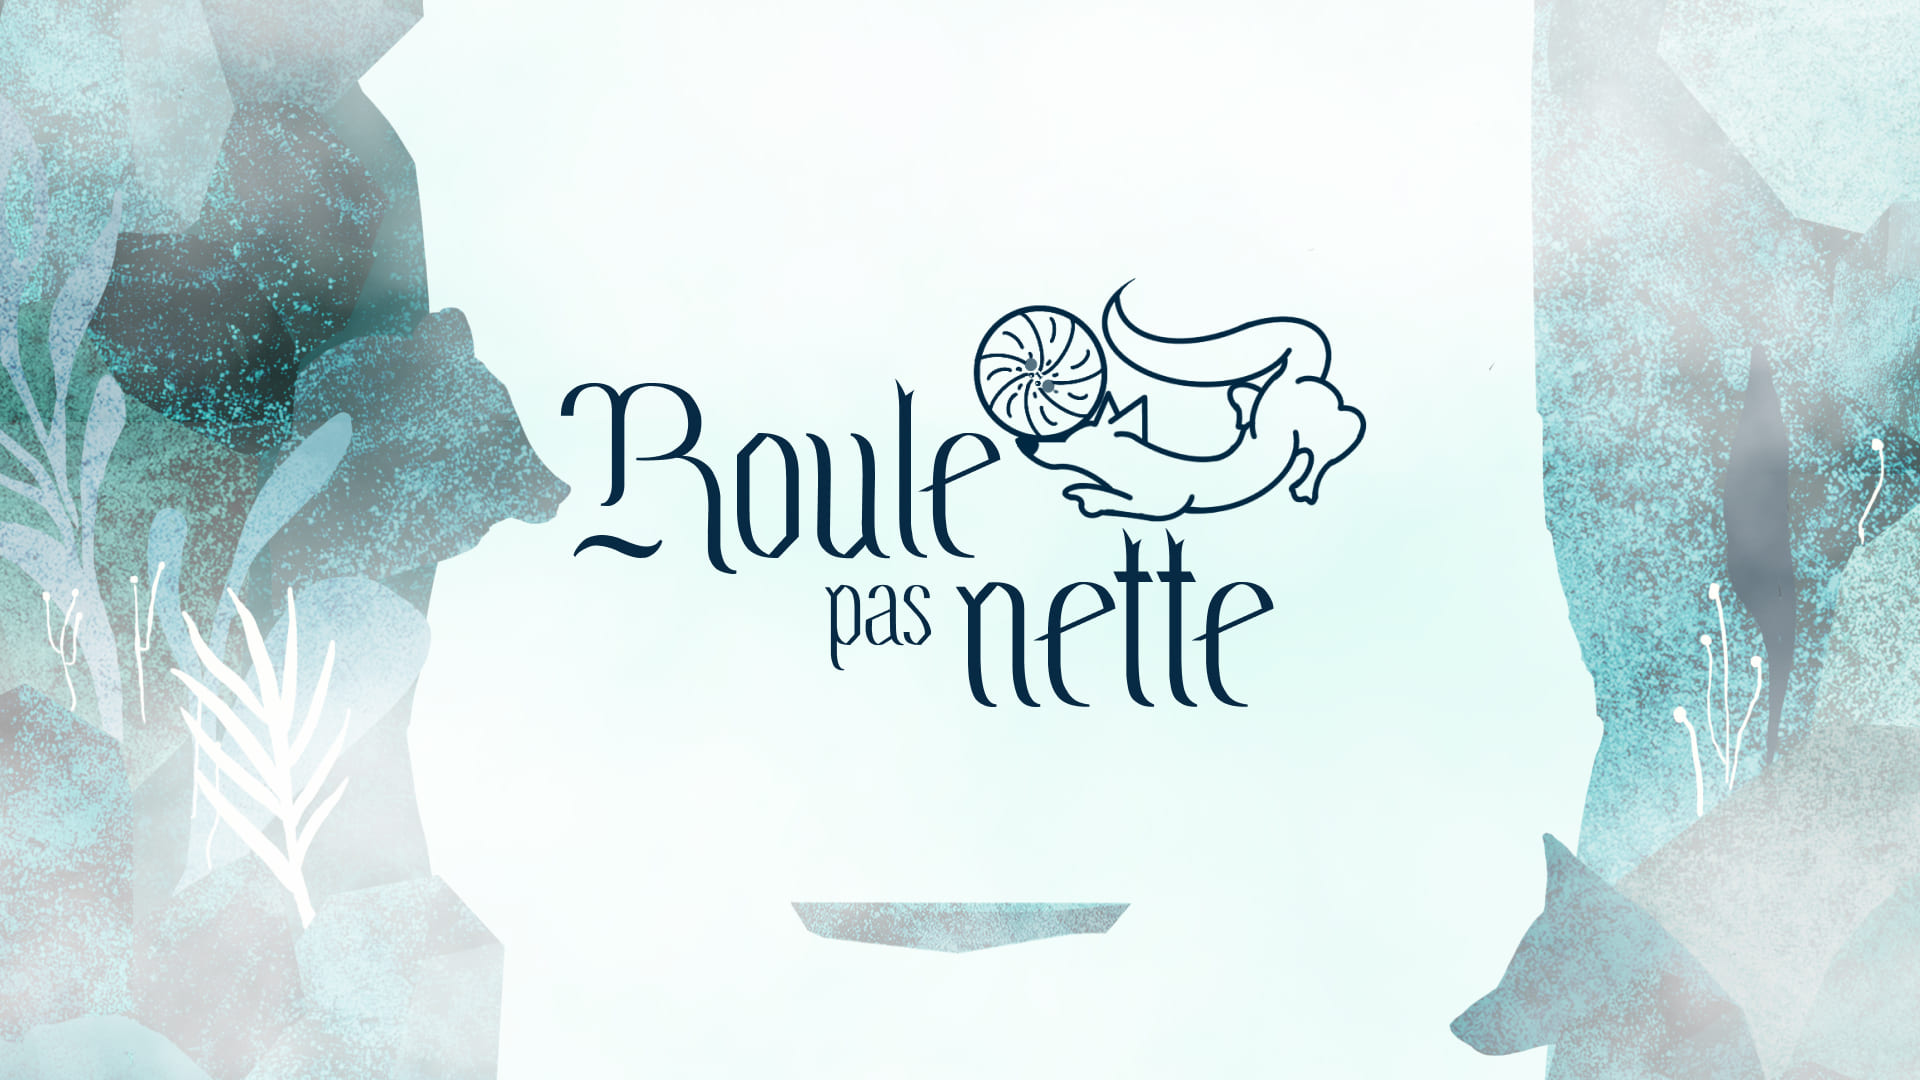
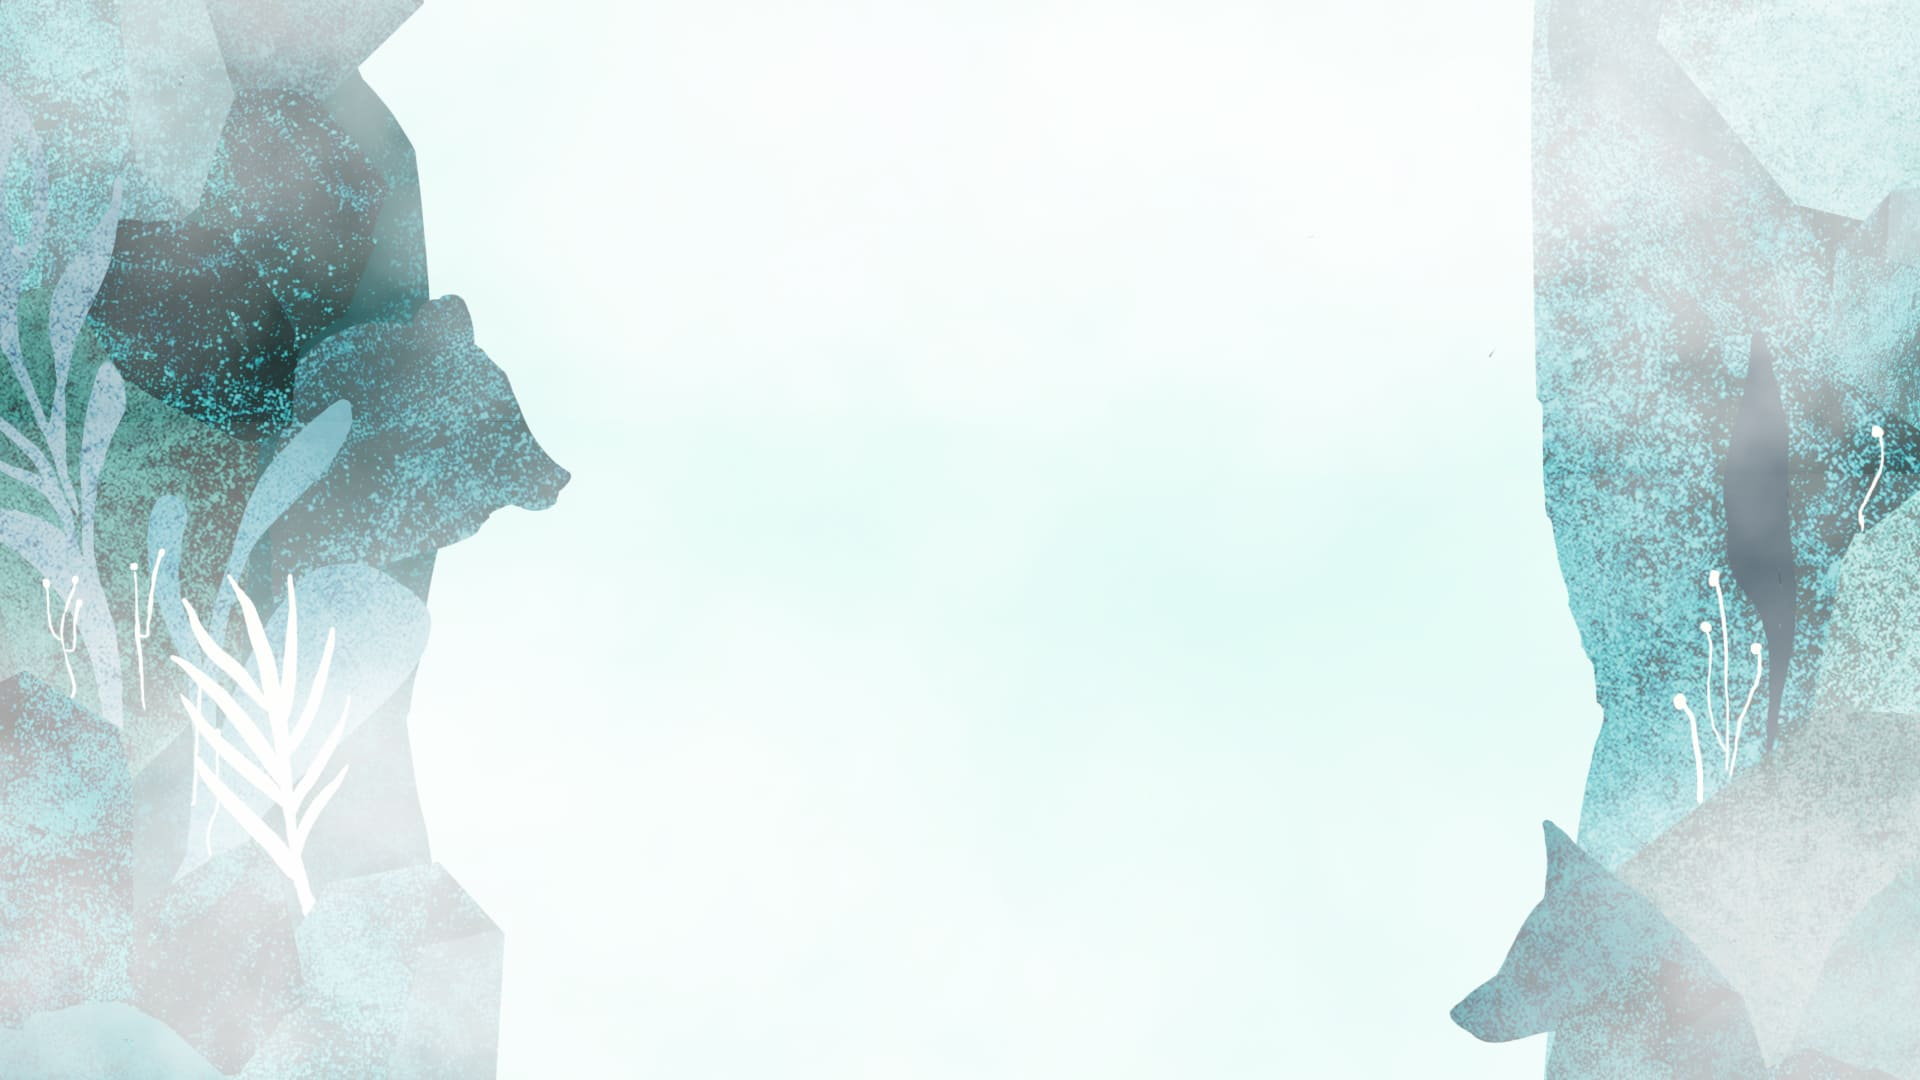
change home page

diff --git a/src/components/Accueil/accueil.css b/src/components/Accueil/accueil.css
@@ -6,9 +6,46 @@
     display: flex;
     flex-direction: column;
     justify-content: center;
-    gap: 6em;
+    /* gap: 6em; */
     align-items: center;
     background-image: url(../../../public/assets/bg/background_accueil.jpg);
     background-size: cover;
     background-position: center;
+}
+
+.title {
+    width: 600px;
+}
+
+a {
+    margin-top: 1.5em;
+    text-decoration: none;
+    font-size: 4em;
+    color: #072A44;
+    transition: all .2s ease;
+    border-bottom: solid 2px transparent;
+    margin-bottom: 0em;
+}
+
+a:hover {
+    color: #FFBB7B;
+    border-bottom: solid 2px #FFBB7B;
+}
+
+.platform {
+    margin-top: 1em;
+    width: 20%;
+    animation: float 6s ease-in-out infinite;
+}
+
+@keyframes float {
+	0% {
+		transform: translatey(0px);
+	}
+	50% {
+		transform: translatey(-10px);
+	}
+	100% {
+		transform: translatey(0px);
+	}
 }

diff --git a/src/components/Game/Game.jsx b/src/components/Game/Game.jsx
@@ -302,8 +302,8 @@ const Game = ({mousePos}) => {
               }
             
               // Audio
-              // choc = this.sound.add('choc', { volume: ambianceVolume});
-              // console.log(choc)
+              choc = this.sound.add('choc', { volume: ambianceVolume});
+              console.log(choc)
               sautSound = this.sound.add('sautGalette', { volume: ambianceVolume });
               // ambiance = this.sound.add('ambiance', {loop: true, volume: ambianceVolume})
               // ambianceForet = this.sound.add('ambianceForet', {loop: true, volume: ambianceVolume})

diff --git a/src/components/Accueil/Accueil.jsx b/src/components/Accueil/Accueil.jsx
@@ -3,8 +3,9 @@ import './accueil.css'
 const Notice = () => {
     return (
         <div className="accueil">
-            {/* <h1>Game over</h1>
-            <img className='platform' src="assets\platforms\plateforme-go.png" alt="platform" /> */}
+            <img className='title' src="assets\bg\logo_renard.png" alt="title" />
+            <a href=''>Jouer</a>
+            <img className='platform' src="assets\platforms\plateforme-go.png" alt="platform" />
         </div>
     )
 }

diff --git a/src/App.js b/src/App.js
@@ -22,10 +22,10 @@ function App() {
       className="App"
       onMouseMove={(e) => handleMouseMove(e)}
       >
-        {/* <Accueil/> */}
-      <Game mousePos={mousePos} /> 
-      {/* <GameOver/> */}
-      {/* <Notice/> */}
+        <Accueil/>
+      {/* <Game mousePos={mousePos} /> 
+      <GameOver/>
+      <Notice/> */}
     </div>
   );
 }
